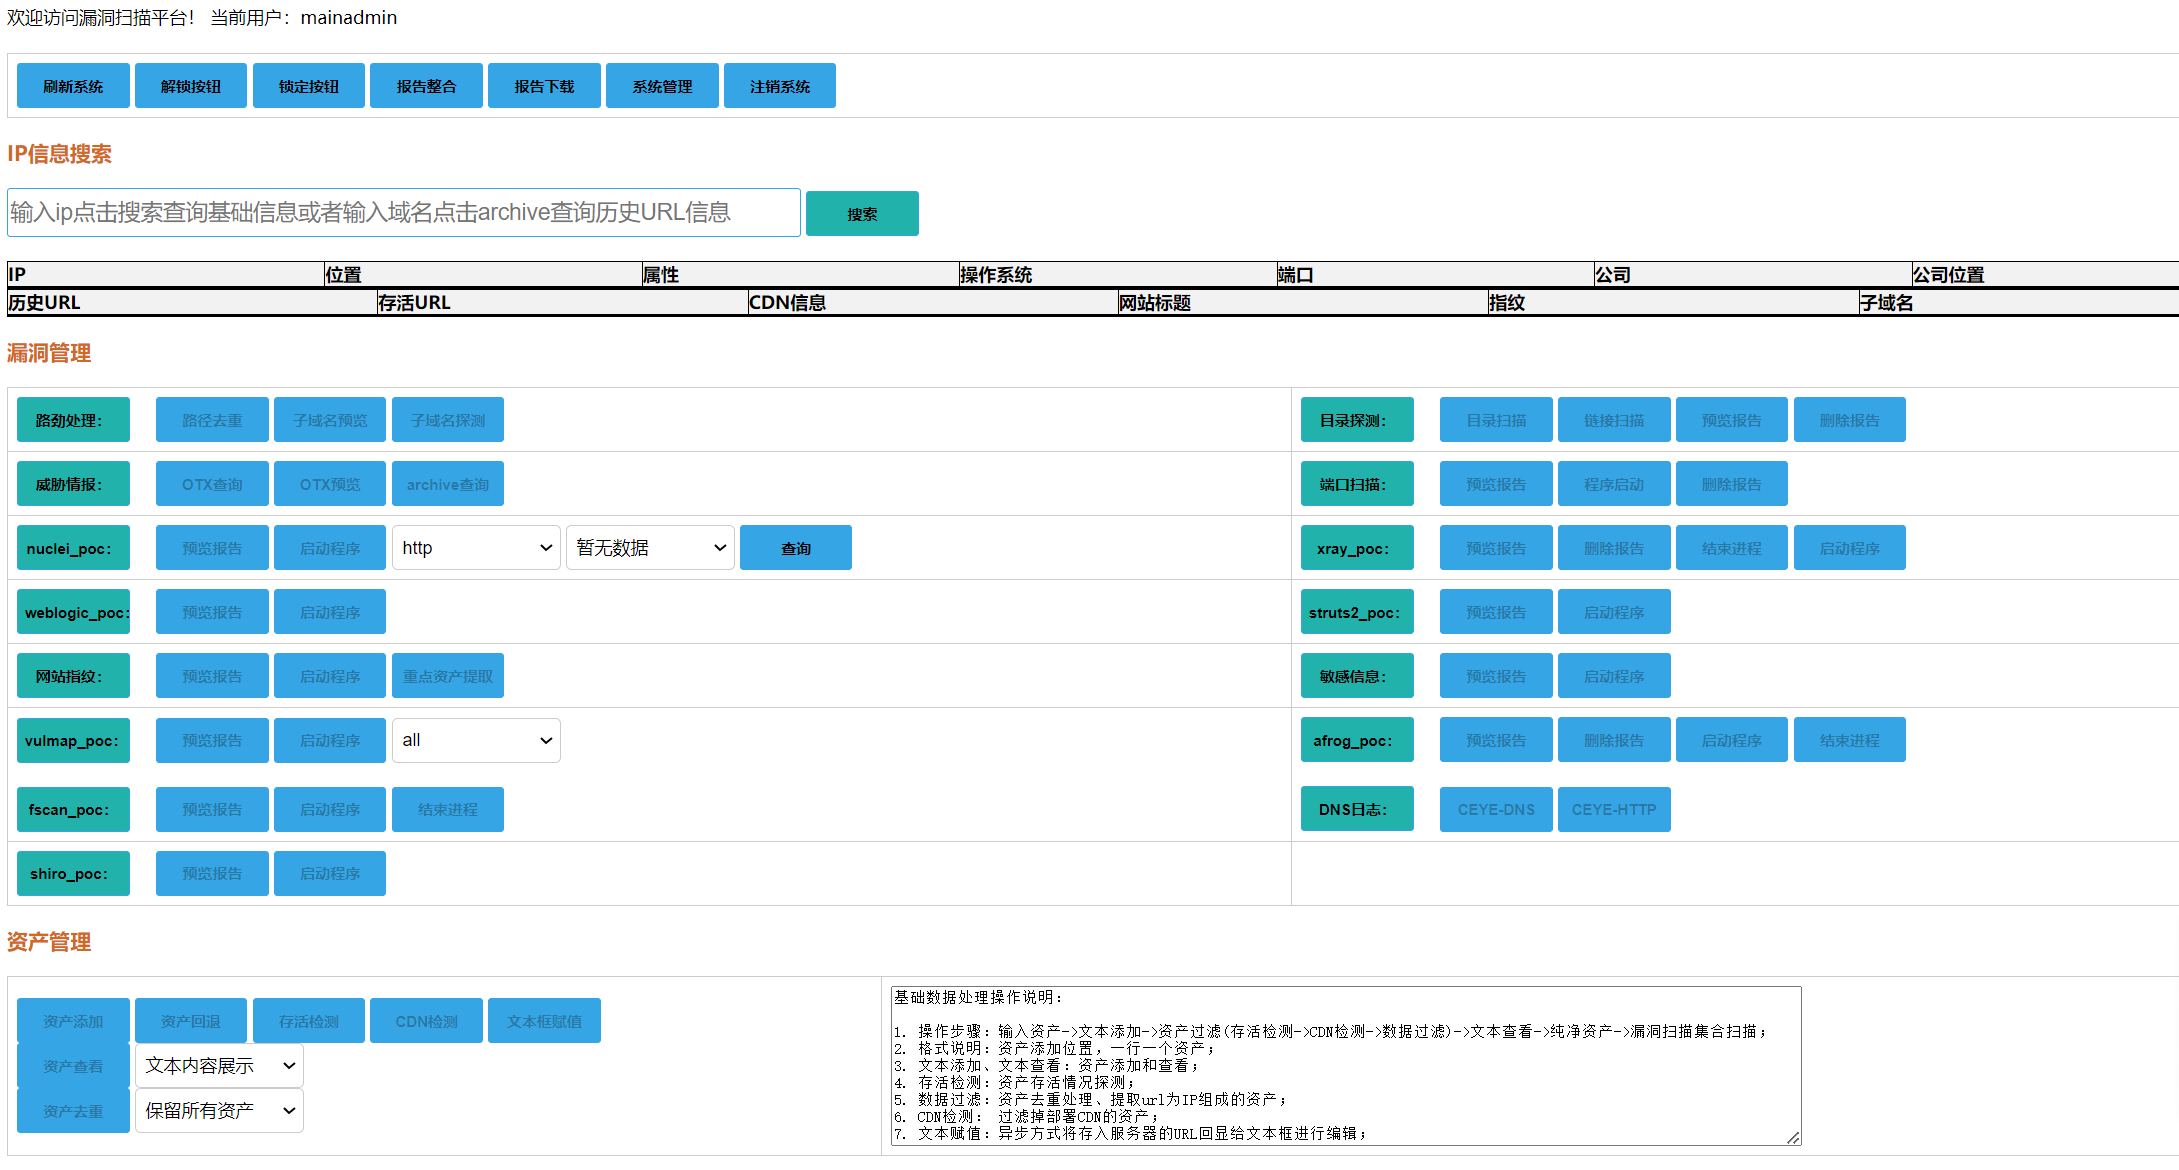
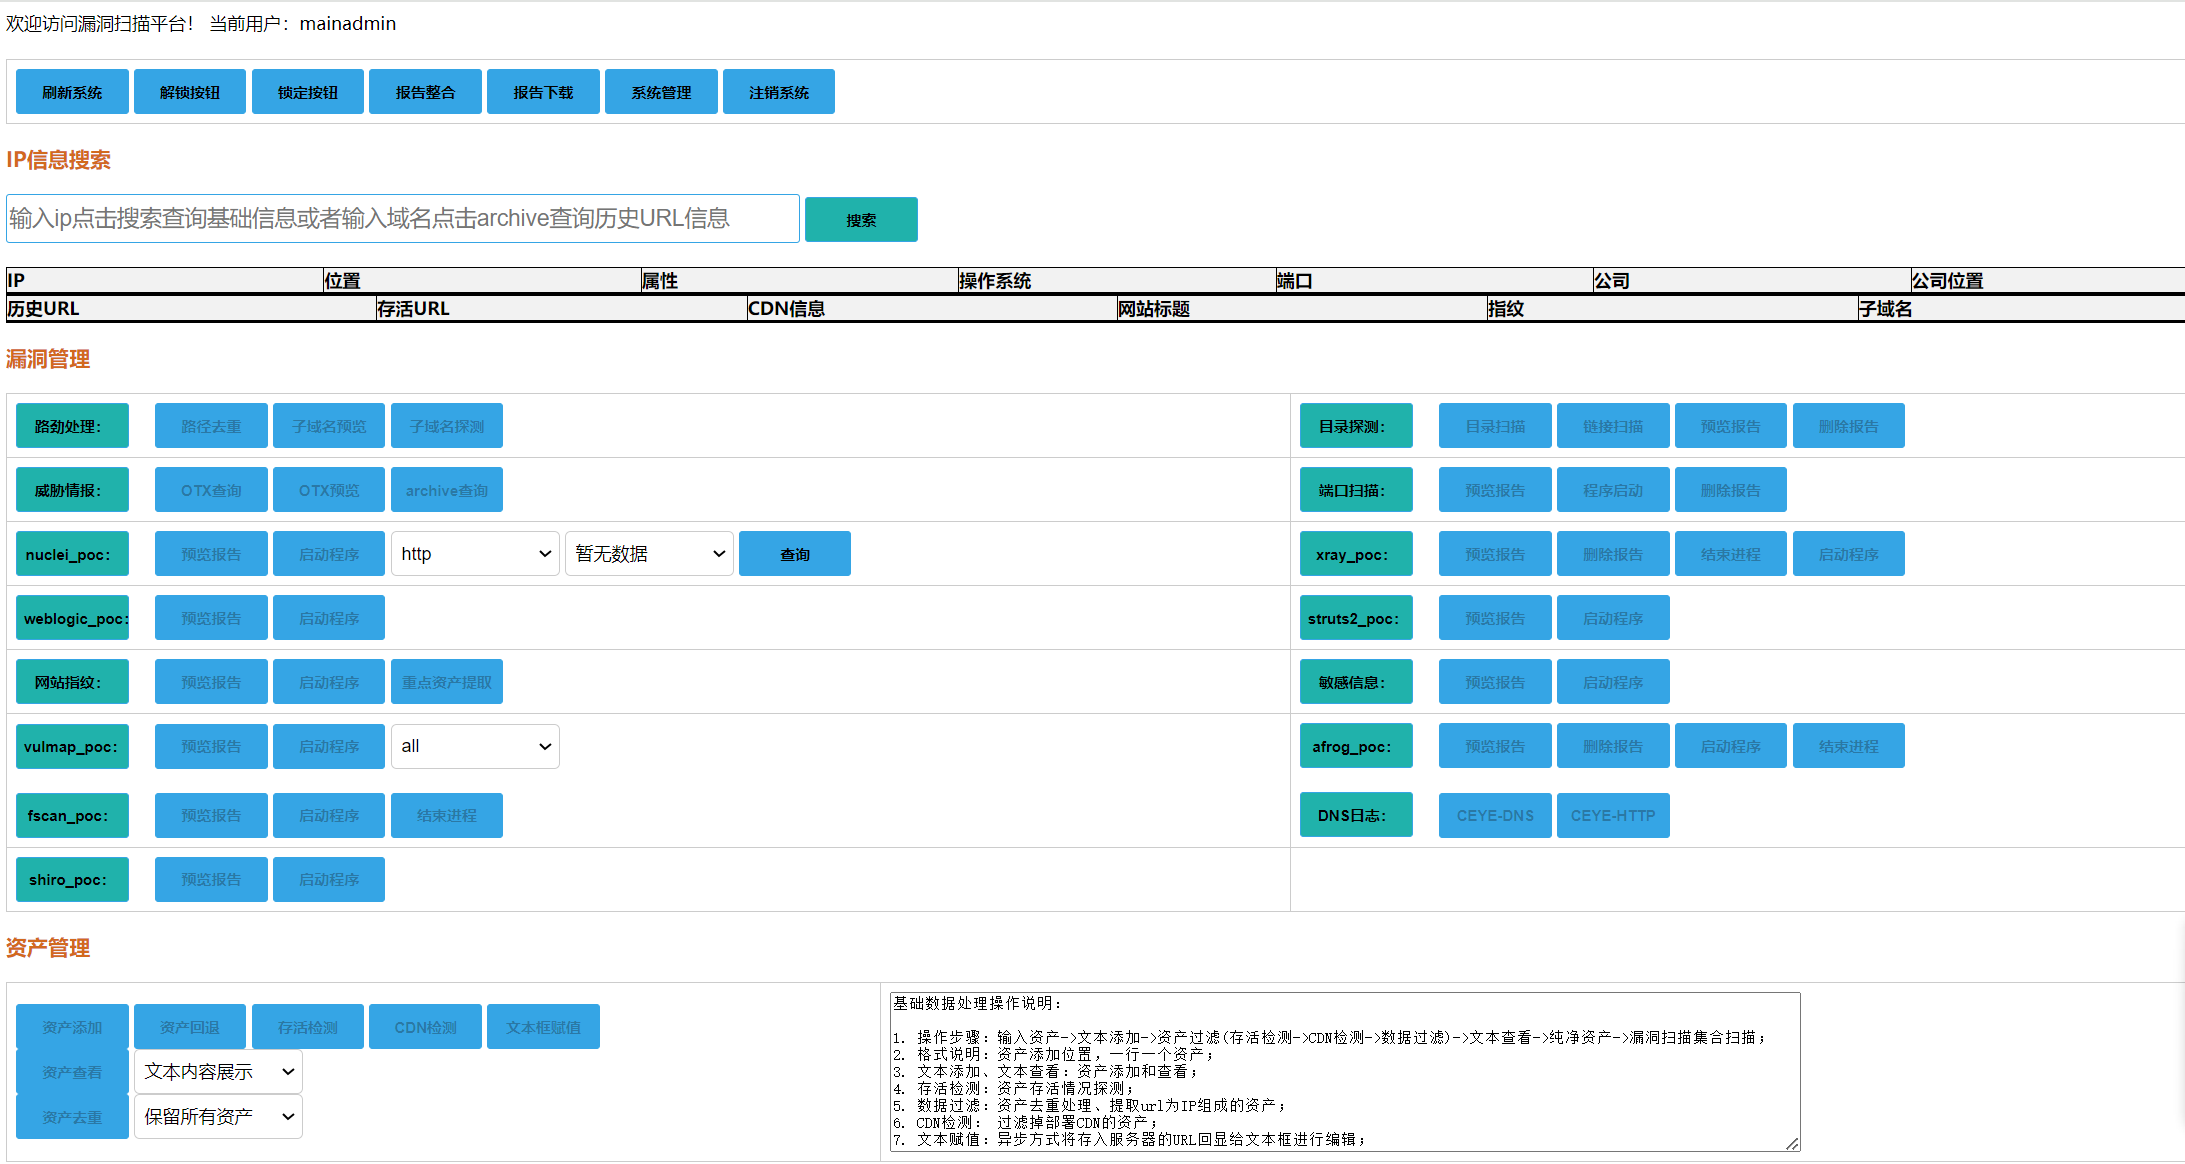
新增重点资产数量识别

diff --git a/static/js/common.js b/static/js/common.js
@@ -47,13 +47,13 @@ function deletenmapfunc() {
 
 //xray报告预览
 function xrayreportshow() {
-    window.open("http://x.x.x.x:18888/", "_blank");
+    window.open("http://121.37.207.248:18888/", "_blank");
 }
 
 
 //urlfinder报告预览
 function urlfinderreportshow() {
-    window.open("http://x.x.x.x:16666/", "_blank");
+    window.open("http://121.37.207.248:16666/", "_blank");
 }
 
 
@@ -469,7 +469,7 @@ function stopbutton() {
 
 //跳转到目录扫描页面
 function jumpdirscanpage() {
-    window.open("http://x.x.x.x:17777/dirscanpage/", "_blank");
+    window.open("http://121.37.207.248:17777/dirscanpage/", "_blank");
 }
 
 
@@ -860,7 +860,7 @@ function targeturlcopytextareafunc() {
 
 //afrog报告预览
 function afrogreportfun() {
-    window.open("http://x.x.x.x:15555/", "_blank");
+    window.open("http://121.37.207.248:15555/", "_blank");
 }
 
 
@@ -1025,7 +1025,7 @@ function key_data_tiqu_func() {
 function openModal() {  
     var modal = document.getElementById("modal");  
     modal.style.display = "block";
-    $.getJSON("/nmapqueuestatus/",
+    $.getJSON("/systemmanagement/",
     function (info) {
         document.getElementById("spp1").innerHTML = info.nmapstatus;
         document.getElementById("spp2").innerHTML = info.nucleistatus;
@@ -1042,6 +1042,13 @@ function openModal() {
         document.getElementById("spp13").innerHTML = info.httpxstatus;
         document.getElementById("spp14").innerHTML = info.url_file_num;
         document.getElementById("spp15").innerHTML = info.eholestatus;
+        document.getElementById("spp16").innerHTML = info.shiro_num;
+        document.getElementById("spp17").innerHTML = info.springboot_num;
+        document.getElementById("spp18").innerHTML = info.weblogic_num;
+        document.getElementById("spp19").innerHTML = info.baota_num;
+        document.getElementById("spp20").innerHTML = info.ruoyi_num;
+        document.getElementById("spp21").innerHTML = info.struts2_num;
+        document.getElementById("spp22").innerHTML = info.WordPress_num;
     })
 
 }  

diff --git a/templates/index.html b/templates/index.html
@@ -46,8 +46,16 @@
 			<span id="spp12"></span><br>
 			<span id="spp15"></span><br>
 			<span id="spp13"></span><br><br>
-			<strong style="color:coral">资产数量 </strong><br>
-			<span id="spp14"></span>
+			<strong style="color:coral">总资产数量</strong><br>
+			<span id="spp14"></span><br><br>
+			<strong style="color:coral">重点资产数量 </strong><br>
+			<span id="spp16"></span><br>
+			<span id="spp17"></span><br>
+			<span id="spp21"></span><br>
+			<span id="spp18"></span><br>
+			<span id="spp19"></span><br>
+			<span id="spp20"></span><br>
+			<span id="spp22"></span><br>
 		</div>  
 	</div>  
 	

diff --git a/scan_main_web.py b/scan_main_web.py
@@ -25,6 +25,15 @@ from config import main_username
 from config import main_password
 
 
+# 重点资产数量规则
+from config import Shiro_rule
+from config import SpringBoot_rule
+from config import weblogic_rule
+from config import baota_rule
+from config import ruoyi_rule
+from config import struts2_rule
+from config import WordPress_rule
+
 
 app = Flask(__name__,template_folder='./templates') 
 app.secret_key = "DragonFire"
@@ -313,11 +322,13 @@ def startnuclei():
    
 
 
-#扫描器运行状态
-@app.route("/nmapqueuestatus/")
-def nmapqueuestatus():
+#系统管理
+@app.route("/systemmanagement/")
+def systemmanagement():
     user = session.get('username')
     if str(user) == main_username:
+
+        # 扫描器运行状态
         nmapstatus =os.popen('bash ./finger.sh nmapstatus').read()
         nucleistatus =os.popen('bash ./finger.sh nucleistatus').read()
         xraystatus = os.popen('bash ./finger.sh xraystatus').read()
@@ -331,8 +342,20 @@ def nmapqueuestatus():
         fscanstatus = os.popen('bash ./finger.sh fscan_status').read()
         shirostatus = os.popen('bash ./finger.sh shiro_status').read()
         httpxstatus = os.popen('bash ./finger.sh httpx_status').read()
-        url_file_num = os.popen('bash ./finger.sh url_file_num').read()
         eholestatus = os.popen('bash ./finger.sh ehole_status').read()
+
+        # 目标url行数
+        url_file_num = os.popen('bash ./finger.sh url_file_num').read()
+
+        # 重点资产数量查询
+       
+        shiro_num = basic.key_point_assets_num(Shiro_rule)
+        springboot_num = basic.key_point_assets_num(SpringBoot_rule)
+        weblogic_num = basic.key_point_assets_num(weblogic_rule)
+        baota_num = basic.key_point_assets_num(baota_rule)
+        ruoyi_num = basic.key_point_assets_num(ruoyi_rule)
+        struts2_num = basic.key_point_assets_num(struts2_rule)
+        WordPress_num = basic.key_point_assets_num(WordPress_rule)
         message_json = {
             "nmapstatus":nmapstatus,
             "nucleistatus":nucleistatus,
@@ -348,7 +371,14 @@ def nmapqueuestatus():
             "shirostatus":shirostatus,
             "httpxstatus":httpxstatus,
             "url_file_num":url_file_num,
-            "eholestatus":eholestatus
+            "eholestatus":eholestatus,
+            "shiro_num":"shiro: "+str(shiro_num),
+            "springboot_num":"springboot: "+str(springboot_num),
+            "weblogic_num":"weblogic: "+str(weblogic_num),
+            "baota_num":"宝塔面板: "+str(baota_num),
+            "ruoyi_num":"若依CMS: "+str(ruoyi_num),
+            "struts2_num":"struts2: "+str(struts2_num),
+            "WordPress_num":"wordpress: "+str(WordPress_num)
         }
         return jsonify(message_json)
     else:

diff --git a/basic.py b/basic.py
@@ -509,11 +509,61 @@ def key_point_tiqu():
     except Exception as e:
         print("捕获到异常:", e)
 
-
     finger_url_list_final = []
     for item in filter_list_result_final:
         url = item.split()[0]
         finger_url_list_final.append(url)
-
     return finger_url_list_final
 
+
+
+# 重点资产数量
+def key_point_assets_num(assets_finger_list):
+    # 提取通过自定义列表过滤出的目标，并提取这些目标的关键字作为字典，存入列表中
+    filter_list_result = []
+    try:
+        for i in assets_finger_list:
+            result = os.popen('bash /TIP/info_scan/finger.sh finger_filter_shell'+' '+i).read()
+            filter_list_result.append(result)
+    except Exception as e:
+        print("捕获到异常:", e)
+
+    try:
+        f2 = open(file='/TIP/info_scan/result/finger_filter_text.txt', mode='w')
+        for j in filter_list_result:
+            j1 = j.replace("[","")
+            j2 = j1.replace("]","")
+            j3 = j2.replace("|","")
+            f2.write(str(j3))
+        f2.close()
+    except Exception as e:
+        print("捕获到异常:", e)
+    
+    try:
+        filter_list_result_final = []
+        f3 = open("/TIP/info_scan/result/finger_filter_text.txt",encoding='utf-8')
+        for k in f3.readlines():
+            #页面显示优化
+            pattern = re.compile(r'\x1b\[[0-9;]*m')
+            clean_text = pattern.sub('', k)
+            clean_text_1 = clean_text.replace("\x1b38;2;237;64;35m ","")
+            clean_text_2 = clean_text_1.replace(" \x1b0m","")
+            filter_list_result_final.append(clean_text_2.strip())
+            
+    except Exception as e:
+        print("捕获到异常:", e)
+
+    try:
+        finger_url_list_final = []
+        for item in filter_list_result_final:
+            url = item.split()[0]
+            finger_url_list_final.append(url)
+    except:
+        pass
+    
+    if len(finger_url_list_final) == 0:
+        assets_len = 0
+    else:
+        assets_len = len(finger_url_list_final)
+    
+    return assets_len

diff --git a/config.py b/config.py
@@ -49,8 +49,15 @@ main_password = ""
 sub_username = ""
 sub_password = ""
 
-#自定义指纹列表
-# 判定规则
-# ① 利用网站指纹识别模块识别所有目标指纹
-# ② 利用自定义指纹列表，筛选出有价值的目标进行针对性扫描
-finger_list = ["Shiro","",""]
+#重点资产提取，列表里配置多个关键字
+finger_list = ["Shiro","spring-boot","Weblogic","宝塔-BT","若依","Struts2","WordPress"]
+
+
+# 资产管理-重点资产数量展示，列表里只填一个关键字
+Shiro_rule = ["Shiro"]
+SpringBoot_rule = ["spring-boot"]
+weblogic_rule = ["Weblogic"]
+baota_rule = ["宝塔-BT"]
+ruoyi_rule = ["若依"]
+struts2_rule = ["Struts2"]
+WordPress_rule = ["WordPress"]
